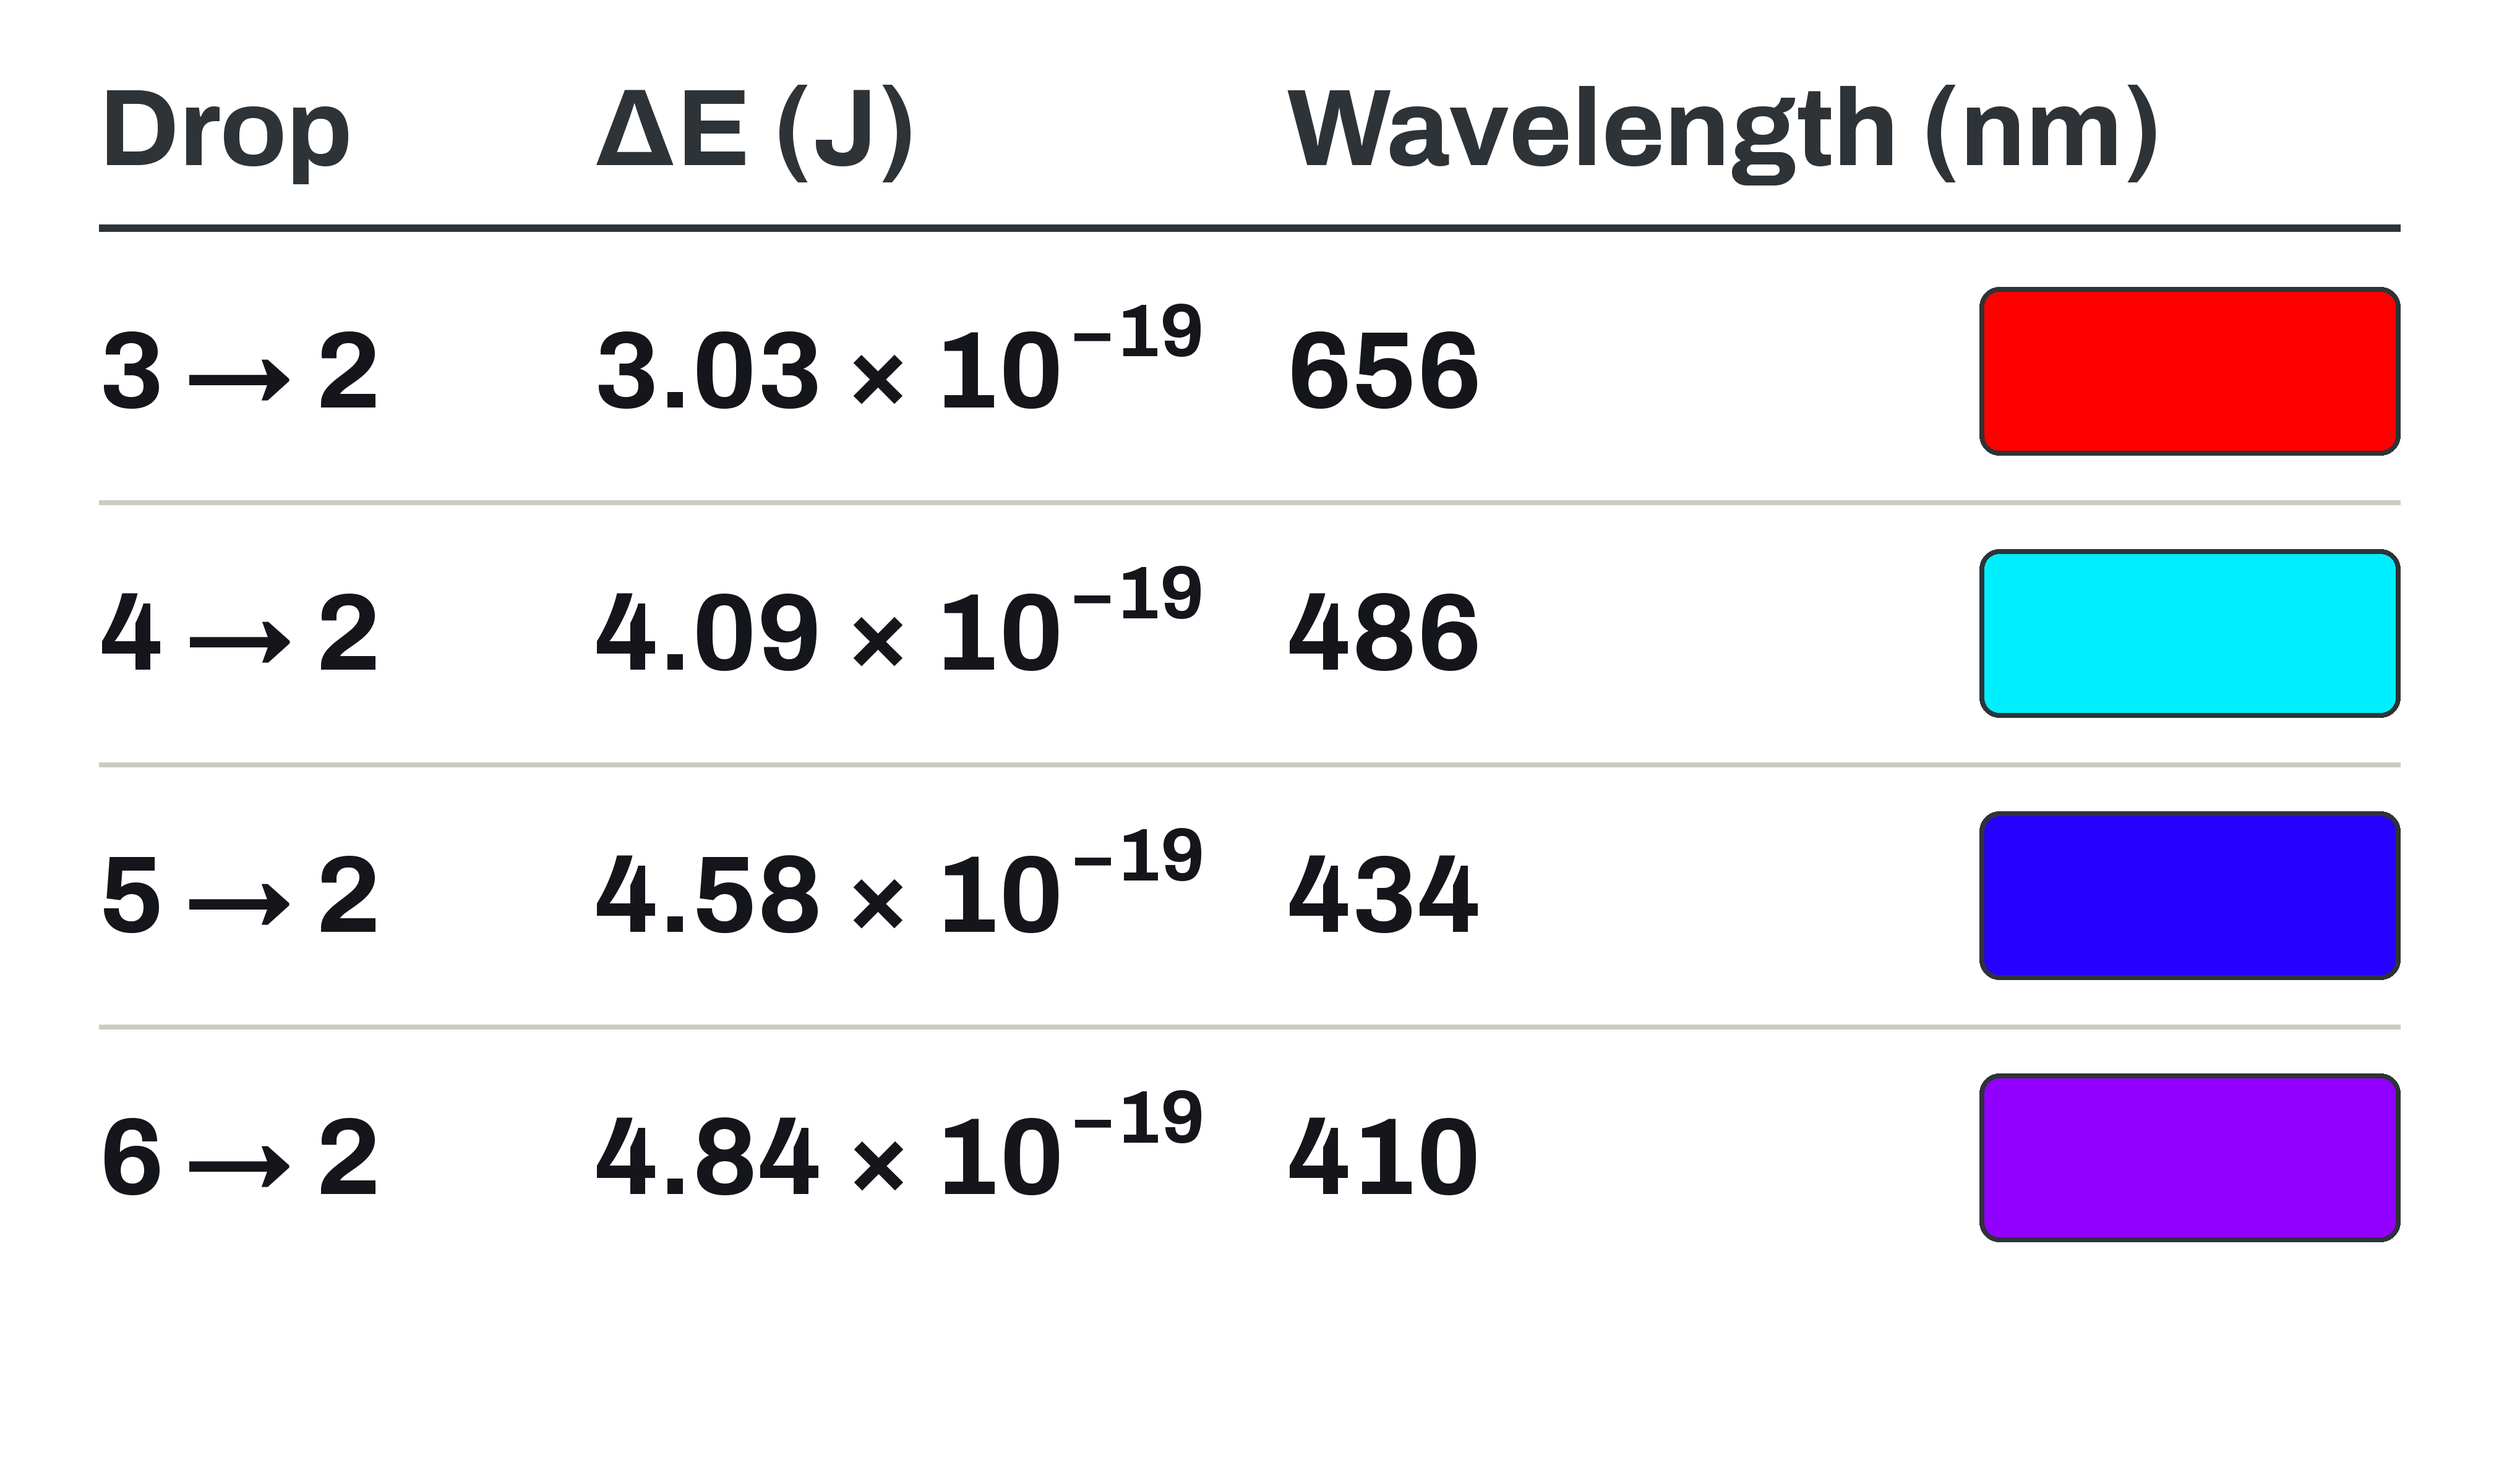
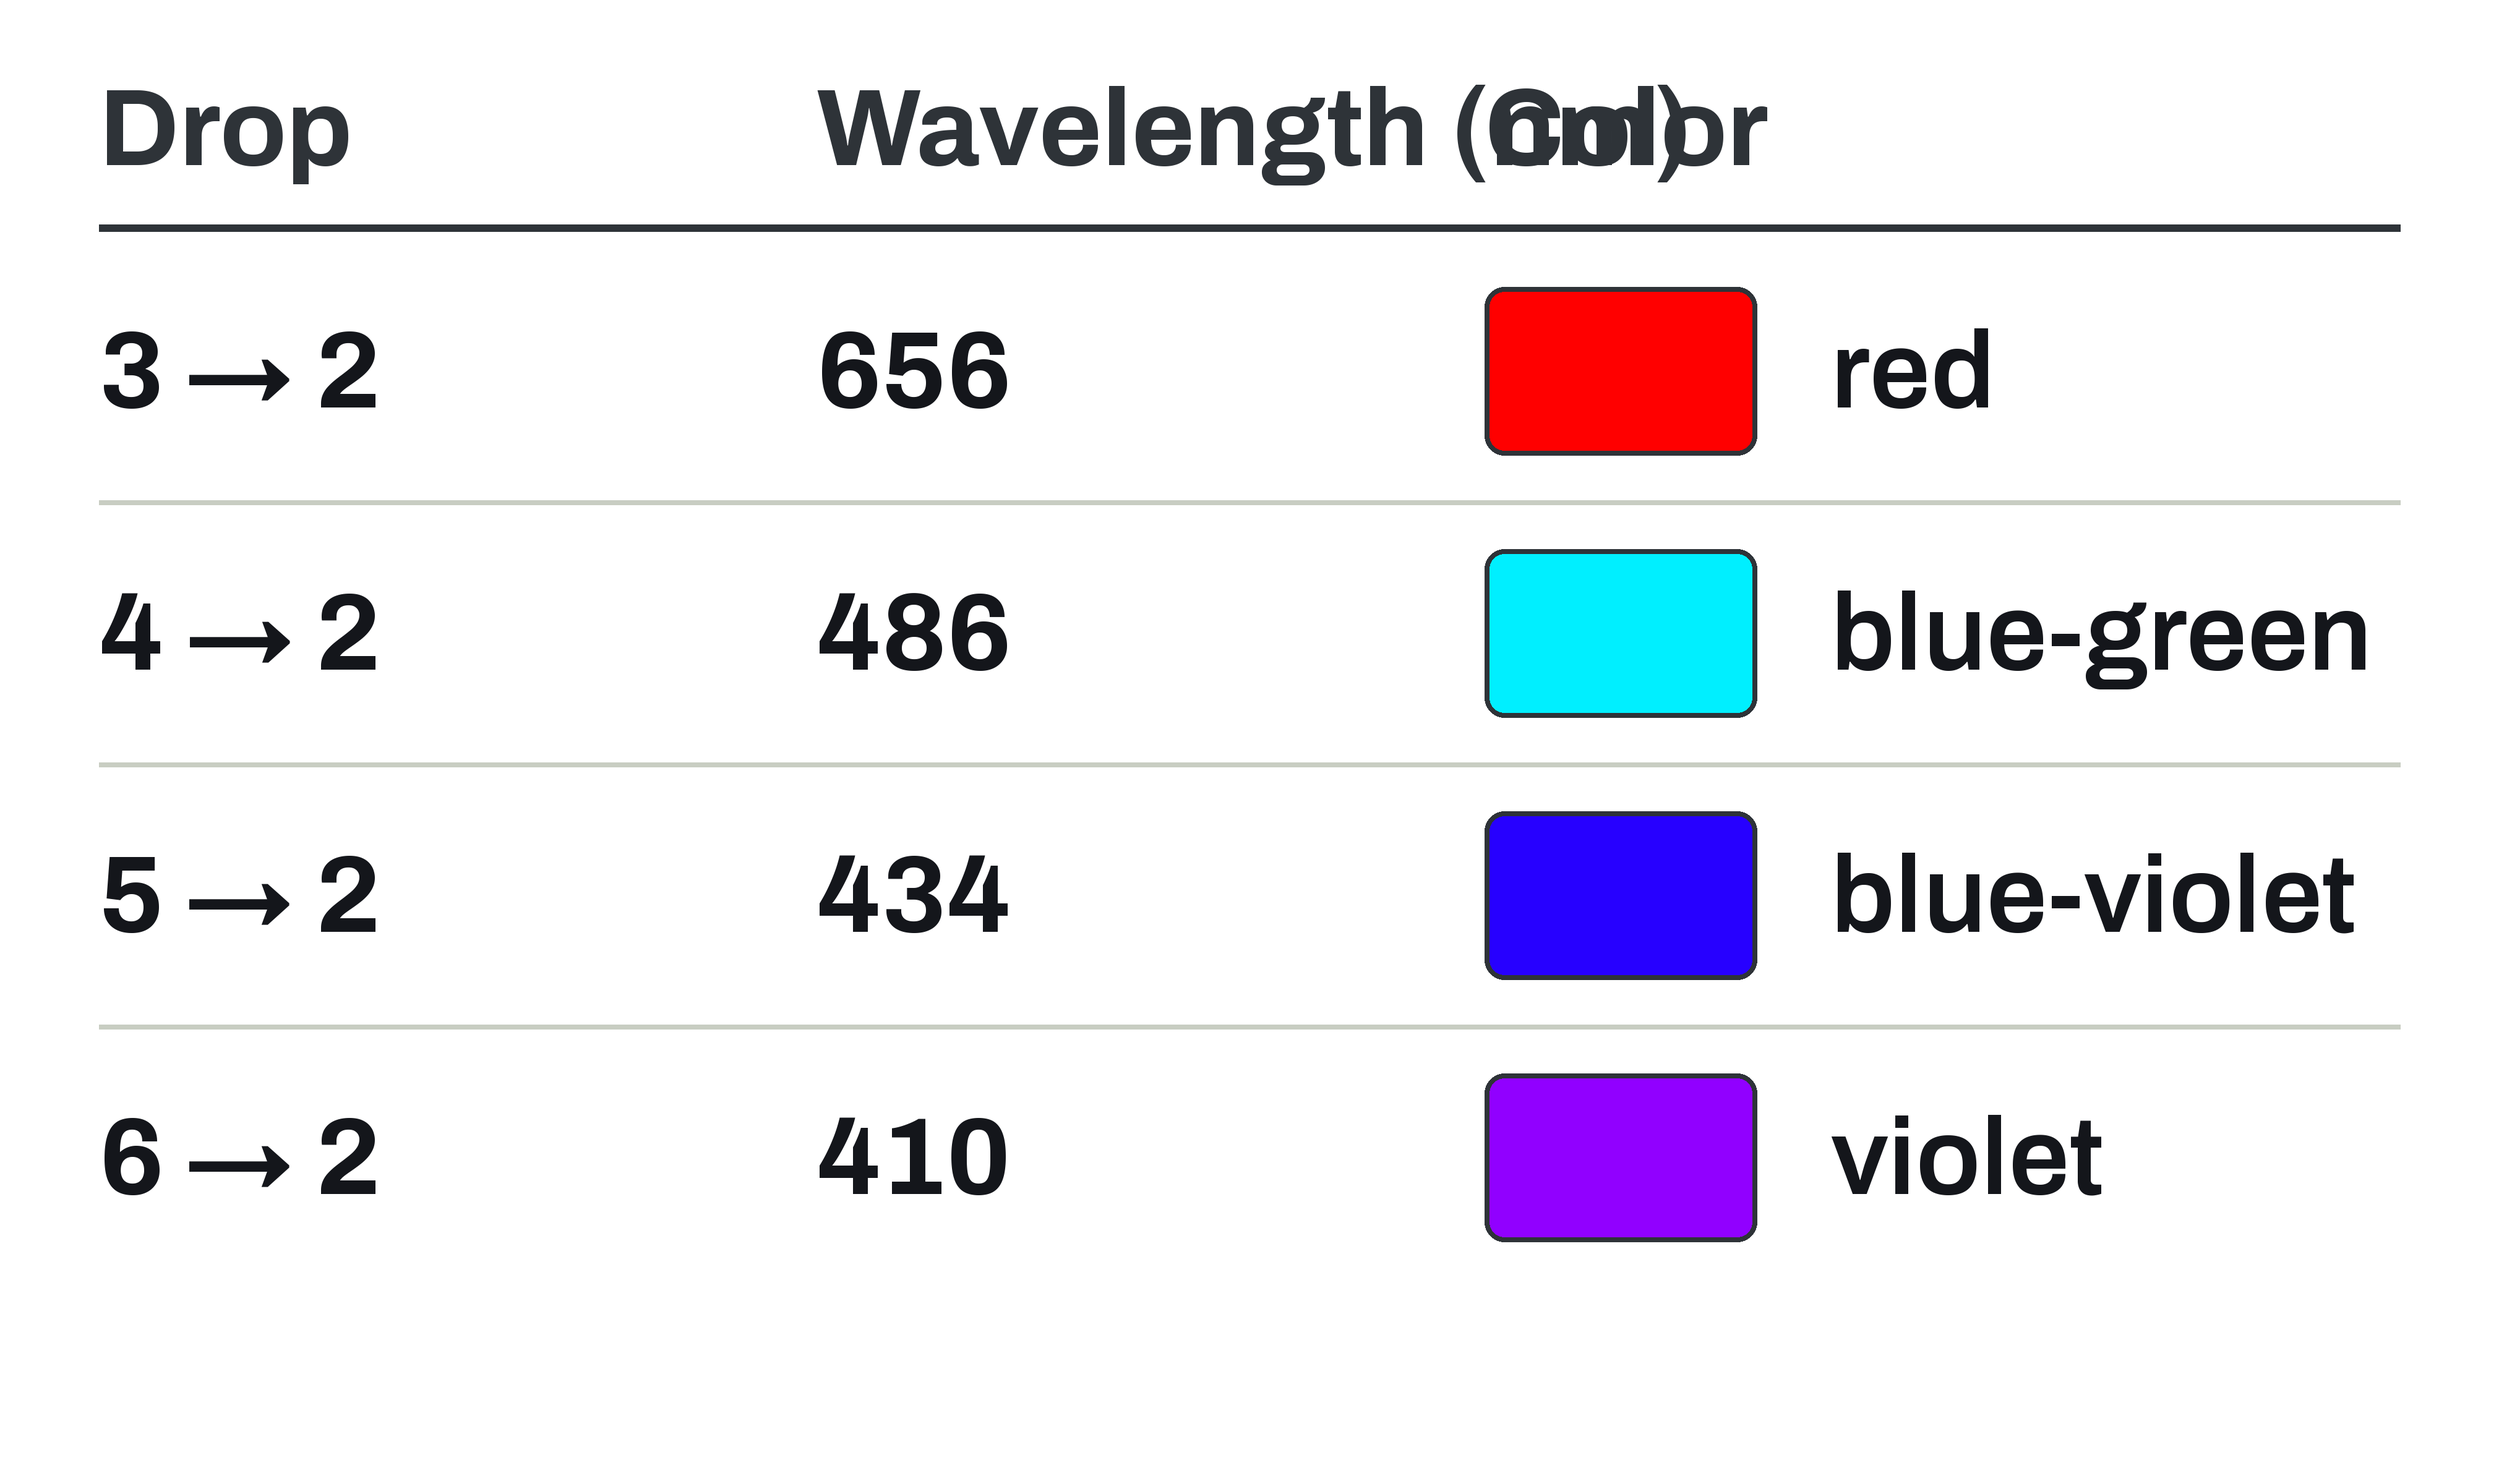
WIP: Chemistry U2 S2.1 and S2.5 scientific-notation rework in progress
Claude-Session: https://claude.ai/code/session_01CAqidLLu6PiYNMcZx5qMsE

diff --git a/scripts/build_diagram_u02_s02.5_spectra.py b/scripts/build_diagram_u02_s02.5_spectra.py
@@ -1,8 +1,9 @@
 #!/usr/bin/env python3
 """Draw the S2.5 "Atomic & Electron Spectra" figures for CHEM U02.
 
-Hand-built, not generated: every number a student reads off these figures is computed
-here from the Rydberg/Bohr relation, never typed. Colours of the UI (text, rules, card
+Hand-built, not generated: every wavelength a student reads off these figures is computed
+here from the Rydberg relation, never typed, and level spacing is computed from 1/n^2.
+No energies or constants are printed on any figure. Colours of the UI (text, rules, card
 edges) come from brand/tokens.json; type is the shipped Archivo. The spectrum and flame
 swatches are physical-colour illustrations of light - the one allowed exception to the
 brand palette, and only inside the figure.
@@ -22,9 +23,7 @@ S = 4
 W, H = 1010 * S, 600 * S
 MIN_PX = 44                     # 16 pt at 200 px/in
 
-R_H = 1.09678e7                 # Rydberg constant, 1/m
-H_PLANCK, C_LIGHT = 6.626e-34, 3.00e8
-E_1 = 2.18e-18                  # J, hydrogen n = 1 magnitude (brief constants table)
+R_H = 1.09678e7                 # Rydberg constant, 1/m (internal only, never printed)
 
 
 def tok():
@@ -52,16 +51,16 @@ def balmer_nm(n):
     return 1e9 / (R_H * (1 / 4 - 1 / n ** 2))
 
 
-def delta_e(n):
-    """Photon energy (J) of the n -> 2 drop, from E_n = -2.18e-18 / n^2."""
-    return E_1 * (1 / 4 - 1 / n ** 2)
+def rel_height(n):
+    """Level height above n = 1, as a fraction of the way to n = infinity: 1 - 1/n^2."""
+    return 1 - 1 / n ** 2
 
 
 LINES = {n: balmer_nm(n) for n in (3, 4, 5, 6)}
 assert [round(v) for v in LINES.values()] == [656, 486, 434, 410], LINES   # brief: exact facts
-# cross-check the two routes (Bohr energy + hc/E vs Rydberg) agree to within rounding
-for n, lam in LINES.items():
-    assert abs(H_PLANCK * C_LIGHT / delta_e(n) * 1e9 - lam) < 1.5, n
+# a bigger drop must give a shorter wavelength (the idea the figures teach)
+assert list(LINES.values()) == sorted(LINES.values(), reverse=True)
+assert [rel_height(n) - rel_height(2) for n in (3, 4, 5, 6)] == sorted(rel_height(n) - rel_height(2) for n in (3, 4, 5, 6))
 
 
 def rgb(wl, floor=1.0):
@@ -103,15 +102,6 @@ def ion(d, x, y, sym, charge, fill=None, anchor_left=True):
     w = F_BOLD.getlength(sym) / S
     d.text((px(x + w + 2), px(y - 16)), charge, font=F_SUP, fill=fill or T["ink"], anchor="lm")
     return x + w + 2 + F_SUP.getlength(charge) / S
-
-
-def sci(d, x, y, mant, exp):
-    """Draw 'mant × 10' with a raised exponent (true minus U+2212), left-anchored."""
-    base = f"{mant} \u00d7 10"
-    d.text((px(x), px(y)), base, font=F_BOLD, fill=T["ink"], anchor="lm")
-    w = F_BOLD.getlength(base) / S
-    e = str(exp).replace("-", "\u2212")
-    d.text((px(x + w + 2), px(y - 16)), e, font=F_SUP, fill=T["ink"], anchor="lm")
 
 
 X0, X1 = 40, 970                # spectrum bar span; 400 nm .. 700 nm
@@ -204,24 +194,24 @@ def fig_h_lines():
 # ---------------------------------------------------------------- figure 3: transitions
 def fig_levels():
     im, d = new()
-    top, n2 = 50, 440
+    top, n1 = 40, 500
     def ly(n):
-        return top + (n2 - top) * (E_1 / n ** 2) / (E_1 / 4)
+        return n1 - (n1 - top) * rel_height(n)       # n = 1 at the bottom, n = infinity at top
     lx0, lx1 = 275, 905
-    levels = {2: ly(2), 3: ly(3), 4: ly(4), 5: ly(5), 6: ly(6)}
+    levels = {n: ly(n) for n in (1, 2, 3, 4, 5, 6)}
     d.line([(px(lx0), px(top)), (px(lx1), px(top))], fill=T["grey"], width=px(3))
     for n, y in levels.items():
         d.line([(px(lx0), px(y)), (px(lx1), px(y))], fill=T["ink"], width=px(4))
     # labels in an even column, leaders to the true level height (levels crowd upward)
-    lab = {"inf": (38, top), 6: (92, levels[6]), 5: (146, levels[5]),
-           4: (200, levels[4]), 3: (254, levels[3]), 2: (n2, levels[2])}
+    lab = {"inf": (34, top), 6: (84, levels[6]), 5: (134, levels[5]), 4: (184, levels[4]),
+           3: (234, levels[3]), 2: (300, levels[2]), 1: (n1, levels[1])}
     for key, (cy, y) in lab.items():
-        s = "n = ∞" if key == "inf" else f"n = {key}"
+        s = "n = \u221e" if key == "inf" else f"n = {key}"
         text(d, 20, cy, s, f=F_BOLD, anchor="lm")
-        d.line([(px(190), px(cy)), (px(215), px(cy))], fill=T["rule"], width=px(2))
-        d.line([(px(215), px(cy)), (px(250), px(y))], fill=T["rule"], width=px(2))
-        d.line([(px(250), px(y)), (px(lx0), px(y))], fill=T["rule"], width=px(2))
-    # drops to n = 2
+        d.line([(px(160), px(cy)), (px(200), px(cy))], fill=T["rule"], width=px(2))
+        d.line([(px(200), px(cy)), (px(265), px(y))], fill=T["rule"], width=px(2))
+        d.line([(px(265), px(y)), (px(lx0), px(y))], fill=T["rule"], width=px(2))
+    # drops to n = 2, coloured by the line they make
     xs = {3: 395, 4: 515, 5: 635, 6: 755}
     for n, x in xs.items():
         col = rgb(LINES[n])
@@ -229,17 +219,17 @@ def fig_levels():
         d.line([(px(x), px(y_start + 4)), (px(x), px(y_end - 24))], fill=col, width=px(9))
         d.polygon([(px(x), px(y_end - 2)), (px(x - 20), px(y_end - 34)), (px(x + 20), px(y_end - 34))],
                   fill=col)
-        text(d, x, 488, f"{round(LINES[n])}", f=F_BOLD)
-    text(d, 575, 548, "Wavelength (nm) of each drop", fill=T["grey"])
+        text(d, x, y_end + 45, f"{round(LINES[n])}", f=F_BOLD)
+    text(d, 575, y_end + 105, "Wavelength (nm) of each drop", fill=T["grey"])
     # energy axis
     ax = 995
-    d.line([(px(ax), px(n2)), (px(ax), px(top + 40))], fill=T["accent"], width=px(3))
+    d.line([(px(ax), px(n1)), (px(ax), px(top + 40))], fill=T["accent"], width=px(3))
     d.polygon([(px(ax), px(top + 6)), (px(ax - 12), px(top + 40)), (px(ax + 12), px(top + 40))],
               fill=T["accent"])
     tmp = Image.new("RGBA", (px(210), px(60)), (255, 255, 255, 0))
     ImageDraw.Draw(tmp).text((px(105), px(30)), "Energy", font=F_BOLD, fill=T["ink"], anchor="mm")
     rot = tmp.rotate(90, expand=True)
-    im.paste(rot, (px(ax - 38) - rot.width // 2, px(245) - rot.height // 2), rot)
+    im.paste(rot, (px(ax - 38) - rot.width // 2, px(300) - rot.height // 2), rot)
     save(im, "chem_u02_s2.5_energy_transitions.png")
 
 
@@ -268,22 +258,24 @@ def fig_types():
 
 
 # ---------------------------------------------------------------- figure 5: pre-built table
+COLOR_NAME = {3: "red", 4: "blue-green", 5: "blue-violet", 6: "violet"}
+
+
 def fig_table():
     im, d = new()
-    cols = {"drop": 40, "dE": 240, "lam": 520, "sw": 800}
+    cols = {"drop": 40, "lam": 330, "sw": 600, "name": 740}
     hy = 52
     text(d, cols["drop"], hy, "Drop", f=F_BOLD, anchor="lm", fill=T["grey"])
-    text(d, cols["dE"], hy, "ΔE (J)", f=F_BOLD, anchor="lm", fill=T["grey"])
     text(d, cols["lam"], hy, "Wavelength (nm)", f=F_BOLD, anchor="lm", fill=T["grey"])
+    text(d, cols["sw"], hy, "Color", f=F_BOLD, anchor="lm", fill=T["grey"])
     d.line([(px(X0), px(92)), (px(X1), px(92))], fill=T["grey"], width=px(3))
     for i, n in enumerate((3, 4, 5, 6)):
         cy = 150 + i * 106
-        text(d, cols["drop"], cy, f"{n} → 2", f=F_BOLD, anchor="lm")
-        mant, exp = f"{delta_e(n):.2e}".split("e")
-        sci(d, cols["dE"], cy, mant, int(exp))
+        text(d, cols["drop"], cy, f"{n} \u2192 2", f=F_BOLD, anchor="lm")
         text(d, cols["lam"], cy, f"{round(LINES[n])}", f=F_BOLD, anchor="lm")
-        d.rounded_rectangle([px(cols["sw"]), px(cy - 34), px(cols["sw"] + 170), px(cy + 34)],
+        d.rounded_rectangle([px(cols["sw"]), px(cy - 34), px(cols["sw"] + 110), px(cy + 34)],
                             radius=px(8), fill=rgb(LINES[n]), outline=T["grey"], width=px(2))
+        text(d, cols["name"], cy, COLOR_NAME[n], f=F_LAB, anchor="lm")
         if i < 3:
             d.line([(px(X0), px(cy + 53)), (px(X1), px(cy + 53))], fill=T["rule"], width=px(2))
     save(im, "chem_u02_s2.5_balmer_table.png")
